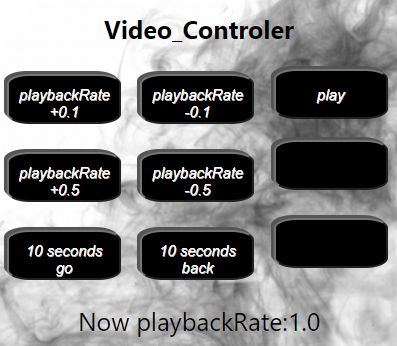
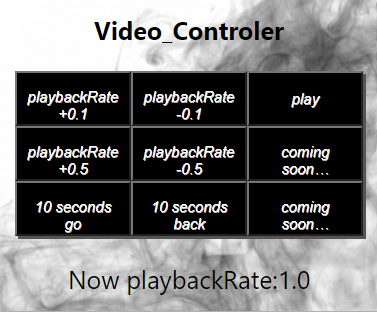
adjust and change images

diff --git a/scripts/content-scripts.js b/scripts/content-scripts.js
@@ -1,7 +1,7 @@
 //webページの情報をbackground.jsに送信
 setTimeout(function () {
     let frame = document.getElementsByName('webclass_content');
-    let frameDocument = document || frame[0].contentDocument || frame[0].contentWindow.document;
+    let frameDocument = frame[0].contentDocument || frame[0].contentWindow.document;
     console.log(frameDocument);
     let Rate = frameDocument.getElementById('video').playbackRate; 
     chrome.runtime.sendMessage({
@@ -16,23 +16,23 @@ chrome.runtime.onMessage.addListener(
         if(isNaN(message)){
             if(message == 'pause'){
                 document.getElementsByName('webclass_content')[0].contentDocument.getElementById('video').play();
-                console.log("video is playing.");
+                console.log("The video is playing now.");
                 return;
             }
             else if(message = 'play'){
                 document.getElementsByName('webclass_content')[0].contentDocument.getElementById('video').pause();
-                console.log("video is stopping.");
+                console.log("The video is stopping now.");
                 return;
             }
             return;
         }
         else if( Math.abs(message) == 10){
             document.getElementsByName('webclass_content')[0].contentDocument.getElementById('video').currentTime += message;
+            console.log(message + 'seconds change');
             return;
         }
         else{
-            console.log('clickを感知');
-            console.log('現在の再生速度：'+ (1 + message)+'倍');
+            console.log('現在の再生速度：'+ (1 + Math.round(message*10)/10)+'倍');
             document.getElementsByName('webclass_content')[0].contentDocument.getElementById('video').playbackRate = 1 + message;
         }
         

diff --git a/scripts/popup.js b/scripts/popup.js
@@ -9,7 +9,7 @@ function Rate_up_little(){
     rate_counter += 0.1;
     chrome.tabs.query({ active: true, currentWindow: true }, function (tabs) {
         chrome.tabs.sendMessage(tabs[0].id, rate_counter); //第二引数は送る要素
-        document.getElementById('now').innerHTML = "Now playbackRate:" + (1 + rate_counter);
+        document.getElementById('now').innerHTML = "Now playbackRate:" + (1 + Math.round(rate_counter*10)/10);
     });    
 }
 
@@ -17,7 +17,7 @@ function Rate_down_little(){
     rate_counter -= 0.1;
     chrome.tabs.query({ active: true, currentWindow: true }, function (tabs) {
         chrome.tabs.sendMessage(tabs[0].id, rate_counter);
-        document.getElementById('now').innerHTML = "Now playbackRate:" + (1 + rate_counter);
+        document.getElementById('now').innerHTML = "Now playbackRate:" + (1 + Math.round(rate_counter*10)/10);
     });    
 }
 
@@ -39,7 +39,7 @@ function Rate_up_much(){
     rate_counter += 0.5;
     chrome.tabs.query({ active: true, currentWindow: true }, function (tabs) {
         chrome.tabs.sendMessage(tabs[0].id, rate_counter);
-        document.getElementById('now').innerHTML = "Now playbackRate:" + (1 + rate_counter);
+        document.getElementById('now').innerHTML = "Now playbackRate:" + (1 + Math.round(rate_counter*10)/10);
     });    
 }
 
@@ -47,7 +47,7 @@ function Rate_down_much(){
     rate_counter -= 0.5;
     chrome.tabs.query({ active: true, currentWindow: true }, function (tabs) {
         chrome.tabs.sendMessage(tabs[0].id, rate_counter);
-        document.getElementById('now').innerHTML = "Now playbackRate:" + (1 + rate_counter);
+        document.getElementById('now').innerHTML = "Now playbackRate:" + (1 + Math.round(rate_counter*10)/10);
     });    
 }
 

diff --git a/css/popup.css b/css/popup.css
@@ -1,6 +1,6 @@
 body{
-    width: 400px;
-    height: 200px;
+    width: 380px;
+    height: 310px;
     margin: 0;
     padding: 0;
     background-image: url(/image/background.jpg);
@@ -11,36 +11,32 @@ body{
 }
 
 button{
-    display: inline;
-    height: 50px;
-    width: 28.5%;
-    box-shadow: -3px -3px rgb(85, 85, 85);
+    display: block;
+    float: left;
+    height: 55px;
+    width: calc(100% /3);
+    box-shadow: 3px 3px rgb(85, 85, 85);
     text-shadow: 0.5px 0.5px rgb(194, 187, 187);
     font-size: 15px;
     background-color: black;
     font-style: italic;
     color:white;
-    padding: 10px;
-    margin: 2%;
-    border-radius: 20%;
+    padding: 15px 10px 15px 10px;
+    /* margin: 1.5% 2% 2% 1.5%; */
+}
+
+.wrapper{
+    height: 165px;
 }
 
 button:active{
-    left:4px;
-    top:4px;
-    display: inline;
-    height: 50px;
-    width: 28%;
-    font-size: 15px;
-    background-color: black;
-    font-style: italic;
-    color:white;
-    padding: 10px;
-    margin: 1.5%;
-    border-radius: 20%;
+    box-shadow: none;
+    /* margin: 2% 1.5% 1.5% 2%; */
 }
 
 div , h1{
+    position: relative;
+    display: block;
     margin: 1.5%;
     font-size: 25px;
     padding: 10px;

diff --git a/popup.html b/popup.html
@@ -8,15 +8,17 @@
 </head>
 <body>
     <h1>Video_Controler</h1>
-    <button id="button1">playbackRate +0.1</button>
-    <button id="button2">playbackRate -0.1</button>
-    <button id="button3">play</button>
-    <button id="button4">playbackRate +0.5</button>
-    <button id="button5">playbackRate -0.5</button>
-    <button></button>
-    <button id="button6">10 seconds go</button>
-    <button id="button7">10 seconds back</button>
-    <button></button>
+    <div class="wrapper">
+        <button id="button1">playbackRate +0.1</button>
+        <button id="button2">playbackRate -0.1</button>
+        <button id="button3">play</button>
+        <button id="button4">playbackRate +0.5</button>
+        <button id="button5">playbackRate -0.5</button>
+        <button>coming soon…</button>
+        <button id="button6">10 seconds go</button>
+        <button id="button7">10 seconds back</button>
+        <button>coming soon…</button>
+    </div>
     <div id="now">Now playbackRate:1.0</div>
     <script src="scripts/popup.js"></script>
 </body>

diff --git a/.gitignore/memo.md b/.gitignore/memo.md
@@ -7,3 +7,6 @@
 ※webclassのようにframeタグ内のdocumentオブジェクト内の要素をいじるときはcontentDocument or contentWindow.documentで指定しなくてはならない。[参照記事はこちら](https://shanabrian.com/web/javascript/element-contentdocument.php)
 
 ※複数のメッセージは送れる？(tabsを見た感じよくわからん。)ただjson形式で複数のデータを送り、content.js側でif文やらで場合分け→forEachとかで回せばいけそう？
+
+# SU_video_speed_controler
+![video_controler](/image/video_controler.png)

diff --git a/README.md b/README.md
@@ -1,0 +1,4 @@
+# SU_video_controler
+※This can only be used in the SU Webclass.
+
+![Video_Controler](/image/video_controler.png)
